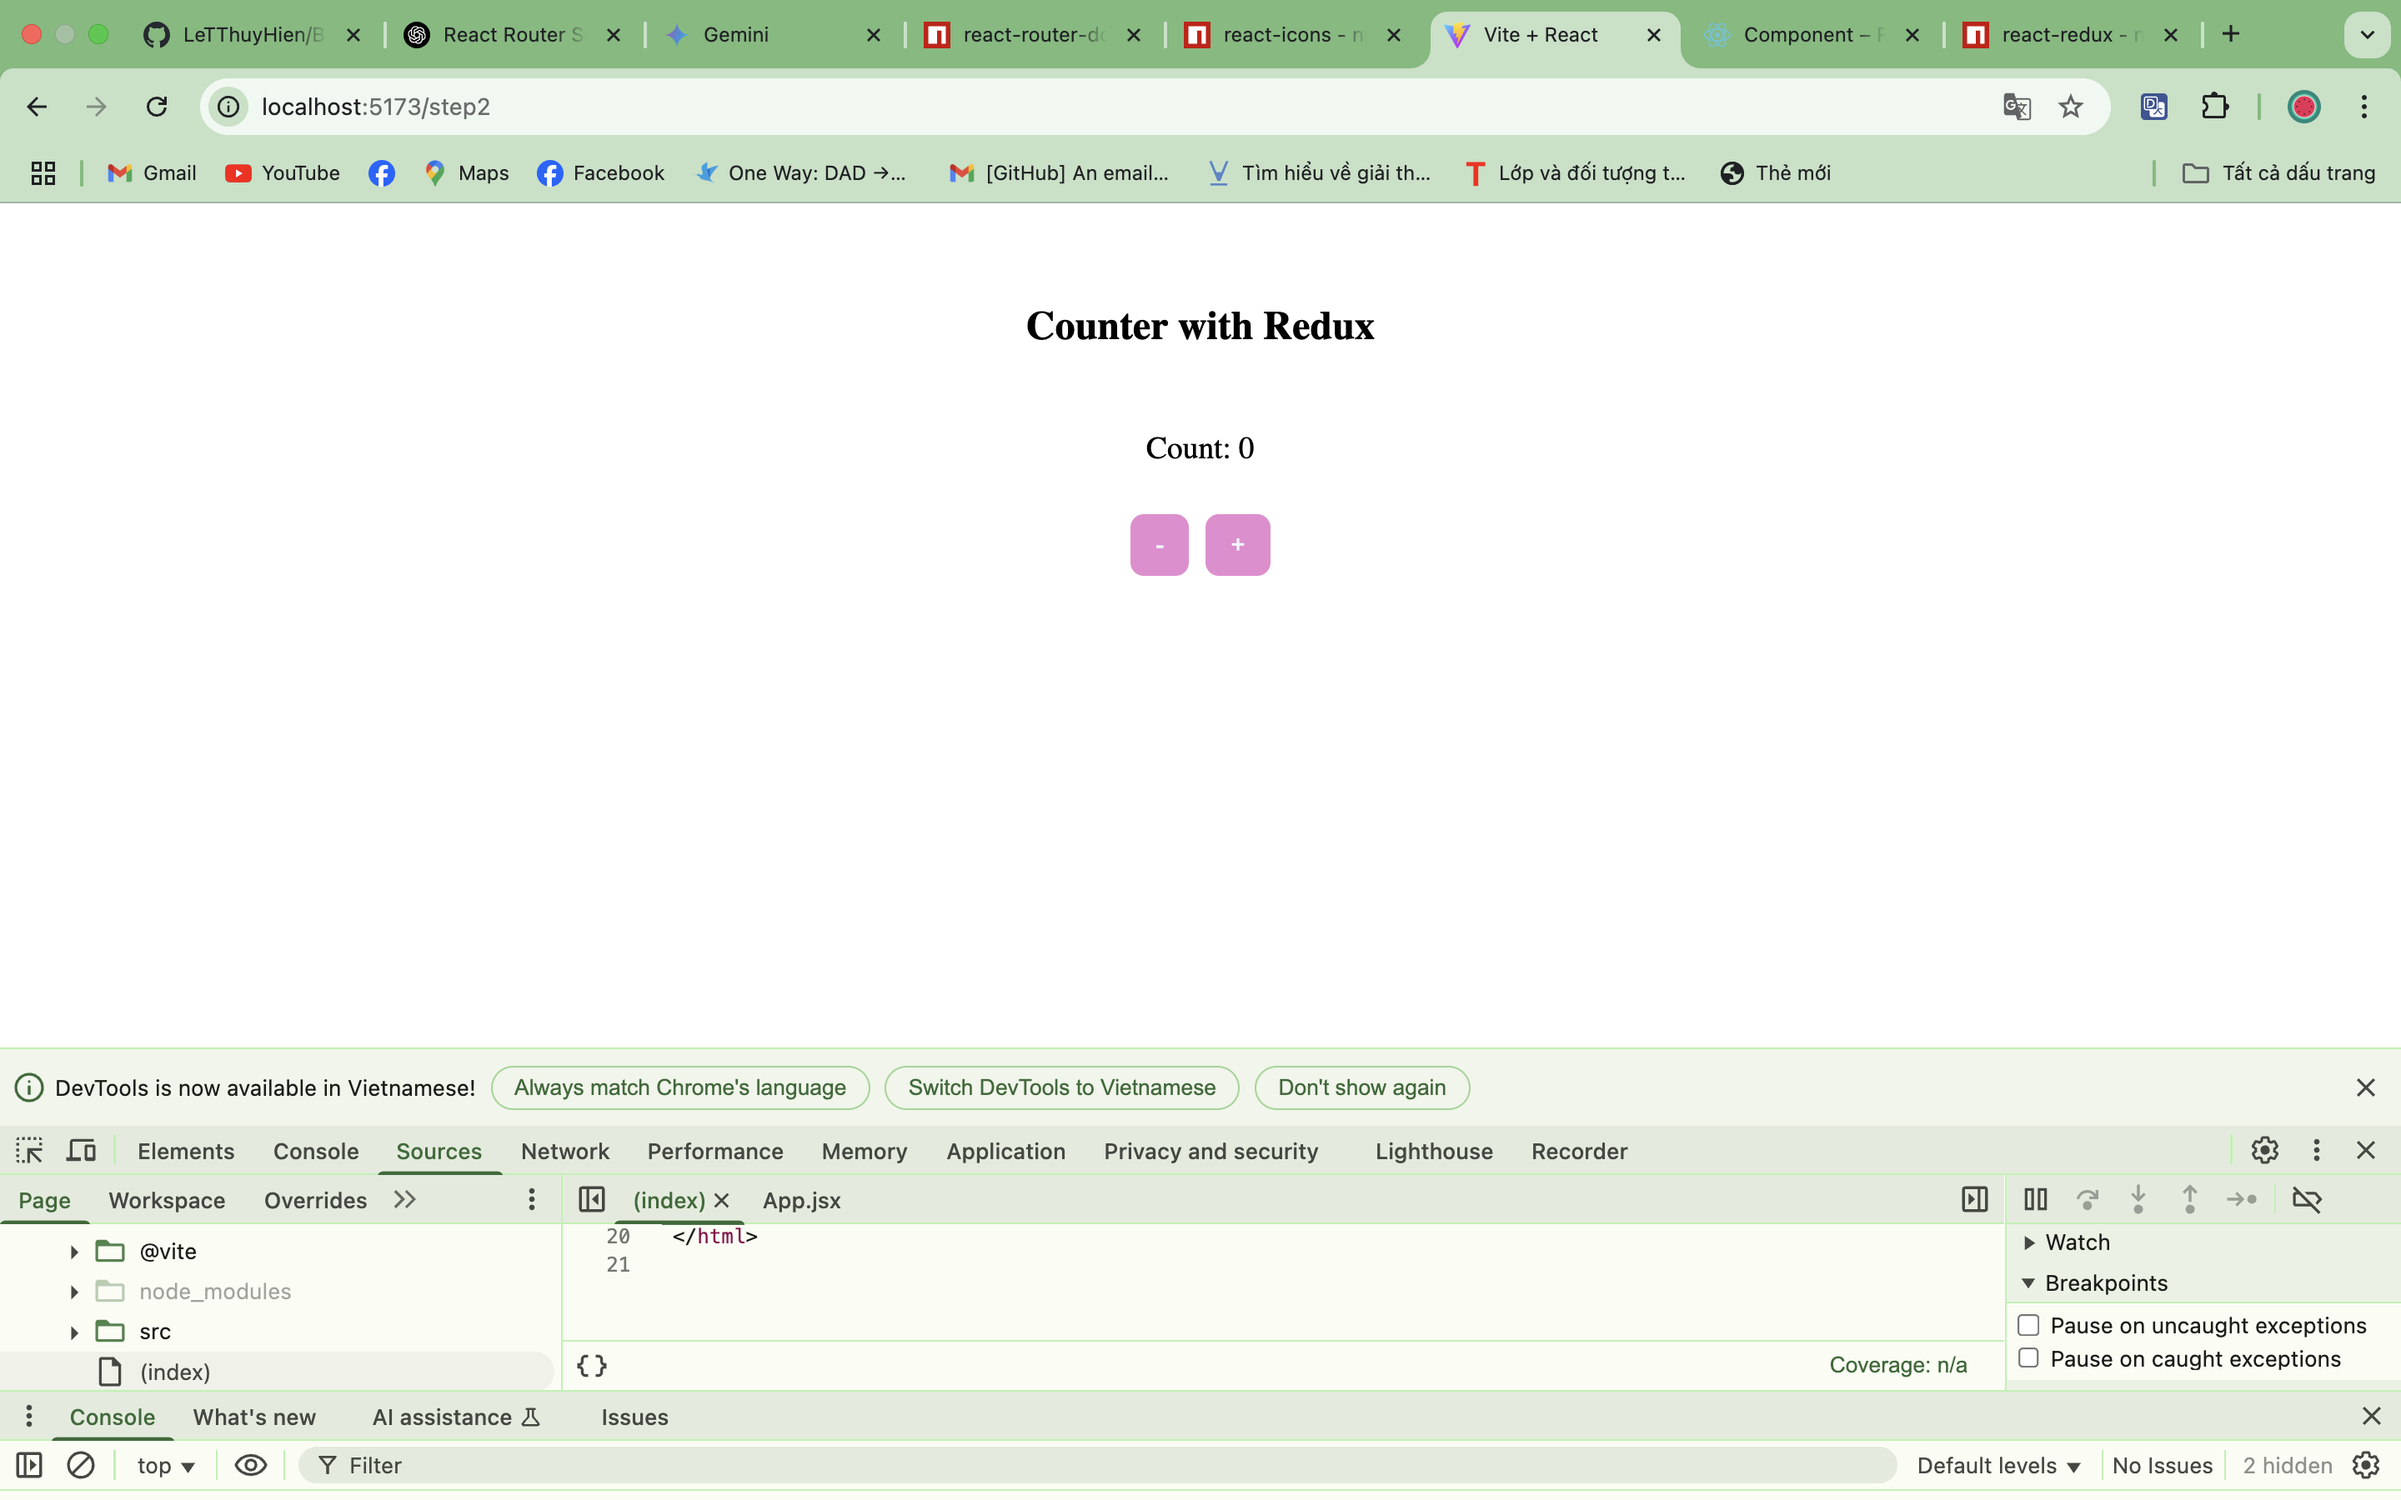
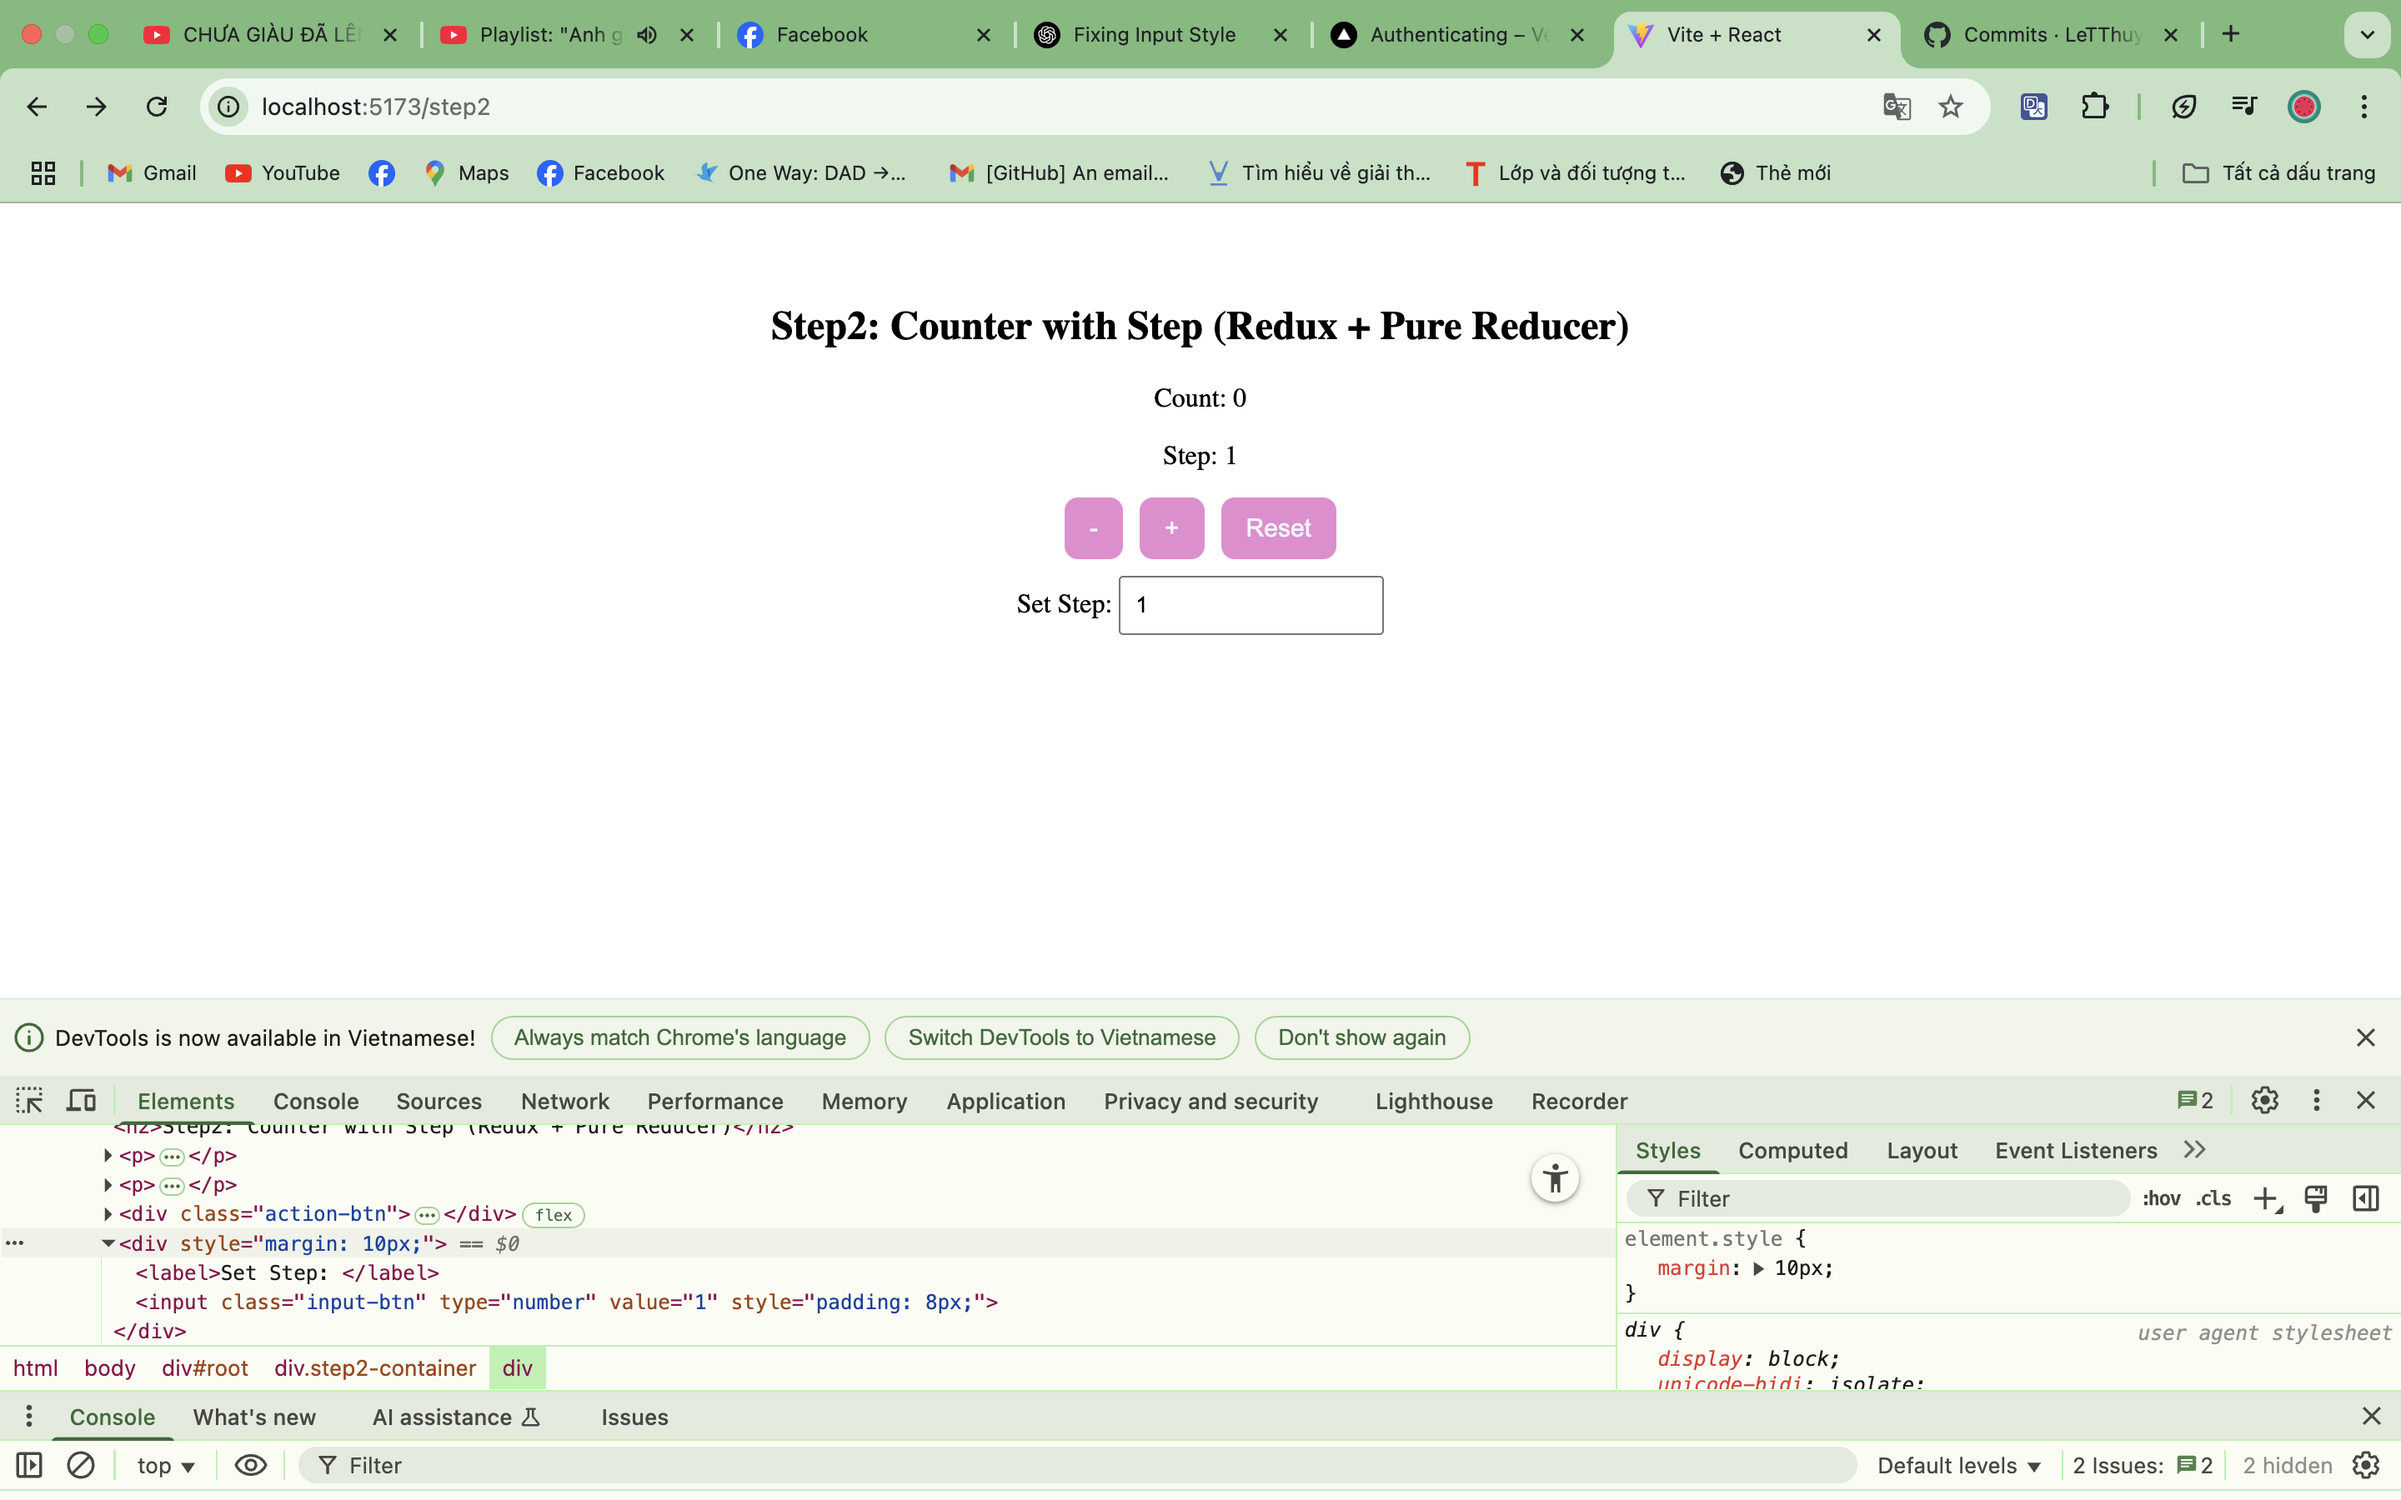
2.Step2 redux function reducer+ pure function +minhchung

diff --git a/src/components/Step2/Step2.jsx b/src/components/Step2/Step2.jsx
@@ -1,23 +1,36 @@
 import React from 'react';
-import { useDispatch, useSelector } from 'react-redux';
-import { increment, decrement } from '../../redux/counterSlice';
+import { useSelector, useDispatch } from 'react-redux';
+import { increment, decrement, setStep, reset } from '../../redux/counterSlice';
 
-
-import "./Step2.css"
 function Step2() {
-    const count = useSelector((state) => state.counter.value);
+    const { count, step } = useSelector((state) => state.counter1);
     const dispatch = useDispatch();
 
     return (
-        <div className='container'>
-            <h2>Counter with Redux</h2>
-            <h3>Count: {count}</h3>
+        <div className='step2-container'>
+            <h2>Step2: Counter with Step (Redux + Pure Reducer)</h2>
+            <p>Count: {count}</p>
+            <p>Step: {step}</p>
+
             <div className='action-btn'>
                 <button onClick={() => dispatch(decrement())}>-</button>
                 <button onClick={() => dispatch(increment())}>+</button>
+                <button onClick={() => dispatch(reset())}>Reset</button>
             </div>
 
-        </div>
+            <div style={{ margin: '10px' }}>
+                <label>Set Step: </label>
+                <input
+                    className='input-btn'
+                    style={{ padding: '8px' }}
+                    type="number"
+                    value={step}
+                    onChange={(e) =>
+                        dispatch(setStep(parseInt(e.target.value) || 1))
+                    }
+                />
+            </div>
+        </div >
     );
 }
 

diff --git a/src/redux/counterSlice.js b/src/redux/counterSlice.js
@@ -1,20 +1,27 @@
 import { createSlice } from '@reduxjs/toolkit';
 
+const initialState = {
+    count: 0,
+    step: 1
+};
+
 const counterSlice = createSlice({
-  name: 'counter',
-  initialState: {
-    value: 0
-  },
-  reducers: {
-    increment: (state) => {
-      state.value += 1;
-    },
-    decrement: (state) => {
-      state.value -= 1;
+    name: 'counter',
+    initialState,
+    reducers: {
+        increment: (state) => {
+            // Pure function: không trực tiếp thay đổi state (immer xử lý)
+            return { ...state, count: state.count + state.step };
+        },
+        decrement: (state) => {
+            return { ...state, count: state.count - state.step };
+        },
+        setStep: (state, action) => {
+            return { ...state, step: action.payload };
+        },
+        reset: () => initialState
     }
-  }
 });
 
-export const { increment, decrement } = counterSlice.actions;
-
+export const { increment, decrement, setStep, reset } = counterSlice.actions;
 export default counterSlice.reducer;

diff --git a/src/components/Step2/Step2.css b/src/components/Step2/Step2.css
@@ -1,27 +1,7 @@
-.container {
-    display: flex;
-    align-items: center;
-    flex-direction: column;
-    gap: 10px;
-
-}
-
-.container h3 {
-    font-weight: 300;
-}
-
-.action-btn {
+.step2-container {
     display: flex;
     justify-content: center;
     align-items: center;
-    gap: 10px;
+    flex-direction: column;
 }
 
-.action-btn button {
-    padding: 10px 15px;
-    background-color: rgb(233, 138, 209);
-    color: aliceblue;
-    border: none;
-    border-radius: 8px;
-    font-size: 15px;
-}

diff --git a/src/redux/store.js b/src/redux/store.js
@@ -1,10 +1,13 @@
 import { configureStore } from '@reduxjs/toolkit';
 import counterReducer from './counterSlice';
+// import counterReducer2 from '../redux/redux2/counterSlice';
+
 
 const store = configureStore({
-  reducer: {
-    counter: counterReducer
-  }
+    reducer: {
+        counter1: counterReducer,
+        // counter2: counterReducer2
+    }
 });
 
 export default store;

diff --git a/src/App.jsx b/src/App.jsx
@@ -13,6 +13,7 @@ function App() {
         <Route path='/' element={<Home />} />
         <Route path='/step1' element={<Step1 />} />
         <Route path='/step2' element={<Step2 />} />
+        {/* <Route path='/step3' element={<Step3 />} /> */}
 
       </Routes>
     </BrowserRouter>

diff --git a/src/Layout/Home/Home.jsx b/src/Layout/Home/Home.jsx
@@ -14,6 +14,9 @@ function Home() {
                 <li >
                     <Link to="/step2">Step2</Link>
                 </li>
+                <li >
+                    <Link to="/step3">Step3</Link>
+                </li>
             </ul>
         </div>
 
